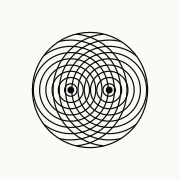
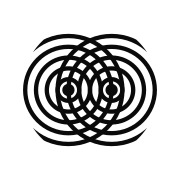
feat(site): centered hero with inline install CTA
Redesign the landing hero: centered layout with an animated background
logomark, the install command inline in the hero, and a GitHub button.
Switch Beta -> Alpha in nav and hero. Rework the favicon (black mark in a
white rounded box) and regenerate the icon assets. Responsive pass.

Changed region(s): [[0.1111, 0.1667, 0.8889, 0.8333]]

diff --git a/site/styles.css b/site/styles.css
@@ -154,12 +154,7 @@ a { color: inherit; text-decoration: none; }
 
 /* ── HERO ────────────────────────────────────────────── */
 .hero { position: relative; z-index: 1; max-width: var(--maxw); margin: 0 auto; padding: clamp(56px, 10vw, 120px) var(--pad) clamp(40px, 7vw, 90px); }
-.hero-grid {
-  display: grid;
-  grid-template-columns: 1.35fr 0.65fr;
-  gap: clamp(24px, 5vw, 64px);
-  align-items: center;
-}
+.hero--centered { display: flex; flex-direction: column; align-items: center; min-height: clamp(480px, 72vh, 720px); justify-content: center; overflow: hidden; }
 .hero h1 {
   font-size: clamp(40px, 8.2vw, 96px);
   font-weight: 500;
@@ -174,17 +169,41 @@ a { color: inherit; text-decoration: none; }
   max-width: 46ch;
   margin: 26px 0 0;
 }
+.lede--center { margin-left: auto; margin-right: auto; color: rgba(10, 10, 10, 0.78); }
 .hero-actions { display: flex; gap: 14px; margin-top: 34px; flex-wrap: wrap; }
 .hero-actions--center { justify-content: center; }
 .hero-foot { margin-top: 28px; }
 
+/* Centered hero: logomark enlarged behind the copy, dimmed + edge-faded so it
+   reads as atmosphere, not a competing element. */
+.hero-copy--center { position: relative; z-index: 1; max-width: 640px; text-align: center; }
+.hero-bg-mark {
+  position: absolute; top: 50%; left: 50%; z-index: 0;
+  width: min(920px, 150vw); transform: translate(-50%, -50%);
+  pointer-events: none; opacity: 0.16; color: var(--ink);
+  mask-image: radial-gradient(circle, #000 45%, transparent 72%);
+  -webkit-mask-image: radial-gradient(circle, #000 45%, transparent 72%);
+}
+.hero-bg-mark img { display: block; width: 100%; height: auto; }
+.install--hero { margin-top: clamp(56px, 9vw, 96px); max-width: 560px; margin-left: auto; margin-right: auto; }
+.install--hero .install-row {
+  text-align: left;
+  background: var(--ink);
+  border-color: rgba(250,250,247,0.14);
+  box-shadow: 0 12px 32px rgba(10,10,10,0.12);
+}
+.install--hero .install-row code { color: #e9e9e3; }
+.install--hero .copy { color: var(--paper); border-color: rgba(250,250,247,0.3); }
+.install--hero .copy:hover { background: var(--paper); color: var(--ink); }
+
 .btn {
-  display: inline-flex; align-items: center; justify-content: center;
+  display: inline-flex; align-items: center; justify-content: center; gap: 8px;
   font-family: var(--mono); font-size: 12px; letter-spacing: 0.04em;
   padding: 13px 22px; border-radius: 2px;
   border: 1px solid var(--ink);
   transition: transform 0.18s var(--ease), background 0.2s var(--ease), color 0.2s var(--ease);
 }
+.btn-gh svg { flex-shrink: 0; }
 .btn:hover { transform: translateY(-2px); }
 .btn-ink { background: var(--ink); color: var(--paper); }
 .btn-ink:hover { background: #1c1c1c; }
@@ -193,14 +212,9 @@ a { color: inherit; text-decoration: none; }
 .btn-paper { background: var(--paper); color: var(--ink); border-color: var(--paper); }
 .btn-paper:hover { background: transparent; color: var(--paper); border-color: var(--paper); }
 
-.hero-mark { display: flex; flex-direction: column; align-items: center; gap: 16px; }
-.hero-mark img { width: min(260px, 60vw); height: auto; }
-.mark-cap { font-family: var(--mono); font-size: 9.5px; letter-spacing: 0.16em; text-transform: uppercase; color: var(--dim-2); }
-@media (max-width: 820px) {
-  .hero-grid { grid-template-columns: 1fr; }
-  .hero-mark { order: -1; align-items: flex-start; }
-  .hero-mark img { width: 120px; }
-  .mark-cap { display: none; }
+@media (max-width: 620px) {
+  .hero-bg-mark { width: min(640px, 190vw); opacity: 0.12; }
+  .install--hero .install-row { flex-direction: column; align-items: stretch; gap: 10px; }
 }
 
 /* ── INK BAND ────────────────────────────────────────── */
@@ -289,13 +303,13 @@ a { color: inherit; text-decoration: none; }
 @media (max-width: 520px) { .why-grid { grid-template-columns: 1fr; } }
 
 /* ── INSTALL ─────────────────────────────────────────── */
-.install { max-width: 720px; margin: 0 auto; }
+.install { max-width: 720px; margin-left: auto; margin-right: auto; }
 .install-row {
   display: flex; align-items: center; justify-content: space-between; gap: 16px;
   border: 1px solid rgba(250,250,247,0.2); border-radius: 4px;
   padding: 16px 18px; background: rgba(250,250,247,0.04);
 }
-.install-row code { font-family: var(--mono); font-size: clamp(12px, 1.6vw, 14px); color: #e9e9e3; letter-spacing: 0.01em; }
+.install-row code { font-family: var(--mono); font-size: clamp(12px, 1.6vw, 14px); color: #e9e9e3; letter-spacing: 0.01em; min-width: 0; overflow-wrap: break-word; }
 .copy {
   font-family: var(--mono); font-size: 10.5px; letter-spacing: 0.1em; text-transform: uppercase;
   background: transparent; color: var(--paper); border: 1px solid rgba(250,250,247,0.3);
@@ -327,4 +341,8 @@ a { color: inherit; text-decoration: none; }
   .reveal, .reveal-up { opacity: 1 !important; transform: none !important; animation: none !important; transition: none !important; }
   .caret { animation: none; }
   html { scroll-behavior: auto; }
+  /* The logomark's pulse is SMIL (<animate> inside the SVG), which CSS
+     animation:none cannot stop — hide the purely decorative (aria-hidden)
+     background mark outright instead. */
+  .hero-bg-mark { display: none; }
 }

diff --git a/site/main.js b/site/main.js
@@ -17,7 +17,7 @@ const I18N = {
     "hero.title": "The Italian<br />Open Source<br /><span class=\"ital\">Coding Agent.</span>",
     "hero.lede": "interference reads your code, edits files and runs commands through an agentic loop — with explicit permissions and a read-only Plan mode. No editor lock-in. Just the terminal.",
     "hero.cta_start": "Get started",
-    "hero.cta_source": "View source ↗",
+    "hero.cta_source": "GitHub ↗",
 
     "term.title": "interference — ~/project",
 
@@ -115,7 +115,7 @@ const I18N = {
     "hero.title": "L'agente di coding<br />open source<br /><span class=\"ital\">italiano.</span>",
     "hero.lede": "interference legge il tuo codice, modifica file ed esegue comandi attraverso un agent loop — con permessi espliciti e una modalità Plan in sola lettura. Nessun vincolo all'editor. Solo il terminale.",
     "hero.cta_start": "Inizia",
-    "hero.cta_source": "Sorgente ↗",
+    "hero.cta_source": "GitHub ↗",
 
     "term.title": "interference — ~/progetto",
 
@@ -363,25 +363,29 @@ document.addEventListener("DOMContentLoaded", function () {
 })();
 
 // ── 3. Copy install command ───────────────────────────
+// Multiple .install-row blocks can exist (hero + quickstart) — each button
+// copies the <code> in its own row, not a page-wide singleton id.
 (function () {
-  var btn = document.getElementById("copybtn");
-  var cmd = document.getElementById("installcmd");
-  if (!btn || !cmd) return;
+  document.querySelectorAll(".install-row").forEach(function (row) {
+    var btn = row.querySelector(".copy");
+    var cmd = row.querySelector("code");
+    if (!btn || !cmd) return;
 
-  btn.addEventListener("click", function () {
-    var text = cmd.textContent.trim();
-    try {
-      navigator.clipboard.writeText(text);
-    } catch (_) {
-      var r = document.createRange(); r.selectNode(cmd);
-      var sel = getSelection(); sel.removeAllRanges(); sel.addRange(r);
-      try { document.execCommand("copy"); } catch (_) {}
-      sel.removeAllRanges();
-    }
-    var prev = btn.textContent;
-    var copiedText = I18N[lang()]["ui.copied"];
-    btn.textContent = copiedText; btn.classList.add("done");
-    setTimeout(function () { btn.textContent = prev; btn.classList.remove("done"); }, 1600);
+    btn.addEventListener("click", function () {
+      var text = cmd.textContent.trim();
+      try {
+        navigator.clipboard.writeText(text);
+      } catch (_) {
+        var r = document.createRange(); r.selectNode(cmd);
+        var sel = getSelection(); sel.removeAllRanges(); sel.addRange(r);
+        try { document.execCommand("copy"); } catch (_) {}
+        sel.removeAllRanges();
+      }
+      var prev = btn.textContent;
+      var copiedText = I18N[lang()]["ui.copied"];
+      btn.textContent = copiedText; btn.classList.add("done");
+      setTimeout(function () { btn.textContent = prev; btn.classList.remove("done"); }, 1600);
+    });
   });
 
   // GitHub star count

diff --git a/site/index.html b/site/index.html
@@ -32,7 +32,7 @@
   <a class="brand" href="#top" aria-label="interference home">
     <img class="brand-mark" src="assets/interference-mark.svg" alt="" width="28" height="28" />
     <span class="brand-word">interference</span>
-    <span class="beta-badge">Beta</span>
+    <span class="beta-badge">Alpha</span>
   </a>
   <nav class="nav-links">
     <a href="#how" data-i18n="nav.how">How it works</a>
@@ -56,20 +56,27 @@
 <main id="top">
 
   <!-- ── HERO ────────────────────────────────────────── -->
-  <section class="hero">
-    <div class="hero-grid">
-      <div class="hero-copy">
-        <span class="hero-badge reveal" style="--d:0">Beta</span>
-        <h1 class="reveal" style="--d:1" data-i18n-html="hero.title">The Italian<br />Open Source<br /><span class="ital">Coding Agent.</span></h1>
-        <p class="lede reveal" style="--d:2" data-i18n="hero.lede">interference reads your code, edits files and runs commands through an agentic loop — with explicit permissions and a read-only Plan mode. No editor lock-in. Just the terminal.</p>
-        <div class="hero-actions reveal" style="--d:3">
-          <a class="btn btn-ink" href="#start" data-i18n="hero.cta_start">Get started</a>
-          <a class="btn btn-ghost" href="https://github.com/ricciviero/interference" target="_blank" rel="noopener" data-i18n="hero.cta_source">View source ↗</a>
+  <section class="hero hero--centered">
+    <div class="hero-bg-mark" aria-hidden="true">
+      <img src="assets/interference-mark-animated.svg" alt="" />
+    </div>
+    <div class="hero-copy hero-copy--center">
+      <span class="hero-badge reveal" style="--d:0">Alpha</span>
+      <h1 class="reveal" style="--d:1" data-i18n-html="hero.title">The Italian<br />Open Source<br /><span class="ital">Coding Agent.</span></h1>
+      <p class="lede lede--center reveal" style="--d:2" data-i18n="hero.lede">interference reads your code, edits files and runs commands through an agentic loop — with explicit permissions and a read-only Plan mode. No editor lock-in. Just the terminal.</p>
+
+      <div class="install install--hero reveal" style="--d:3">
+        <div class="install-row">
+          <code>bun install -g interference-agent</code>
+          <button class="copy" type="button" aria-label="Copy command" data-i18n="ui.copy">copy</button>
         </div>
       </div>
 
-      <div class="hero-mark reveal" style="--d:2" aria-hidden="true">
-        <img src="assets/interference-mark-animated.svg" alt="" />
+      <div class="hero-actions hero-actions--center reveal" style="--d:4">
+        <a class="btn btn-ghost btn-gh" href="https://github.com/ricciviero/interference" target="_blank" rel="noopener">
+          <svg width="15" height="15" viewBox="0 0 16 16" fill="currentColor" aria-hidden="true"><path d="M8 0C3.58 0 0 3.58 0 8c0 3.54 2.29 6.53 5.47 7.59.4.07.55-.17.55-.38 0-.19-.01-.82-.01-1.49-2.01.37-2.53-.49-2.69-.94-.09-.23-.48-.94-.82-1.13-.28-.15-.68-.52-.01-.53.63-.01 1.08.58 1.23.82.72 1.21 1.87.87 2.33.66.07-.52.28-.87.51-1.07-1.78-.2-3.64-.89-3.64-3.95 0-.87.31-1.59.82-2.15-.08-.2-.36-1.02.08-2.12 0 0 .67-.21 2.2.82.64-.18 1.32-.27 2-.27.68 0 1.36.09 2 .27 1.53-1.04 2.2-.82 2.2-.82.44 1.1.16 1.92.08 2.12.51.56.82 1.27.82 2.15 0 3.07-1.87 3.75-3.65 3.95.29.25.54.73.54 1.48 0 1.07-.01 1.93-.01 2.2 0 .21.15.46.55.38A8.013 8.013 0 0016 8c0-4.42-3.58-8-8-8z"/></svg>
+          <span data-i18n="hero.cta_source">GitHub ↗</span>
+        </a>
       </div>
     </div>
   </section>
@@ -172,7 +179,7 @@
   <!-- ── FEATURES ────────────────────────────────────── -->
   <section id="features" class="section">
     <div class="sec-head">
-      <span class="eyebrow" data-i18n="features.eyebrow">/ 02 — what's inside</span>
+      <span class="eyebrow" data-i18n="features.eyebrow">/ 03 — what's inside</span>
       <h2 data-i18n="features.title">Small surface. Serious capability.</h2>
     </div>
     <div class="feat-grid">
@@ -227,7 +234,7 @@
   <!-- ── WHY ─────────────────────────────────────────── -->
   <section id="why" class="section">
     <div class="sec-head">
-      <span class="eyebrow" data-i18n="why.eyebrow">/ 03 — why interference</span>
+      <span class="eyebrow" data-i18n="why.eyebrow">/ 04 — why interference</span>
       <h2 data-i18n="why.title">Not just another agent.</h2>
     </div>
     <div class="why-grid">
@@ -252,7 +259,7 @@
   <!-- ── QUICKSTART ──────────────────────────────────── -->
   <section id="start" class="band-ink section">
     <div class="sec-head sec-head--center">
-      <span class="eyebrow" data-i18n="start.eyebrow">/ 04 — quickstart</span>
+      <span class="eyebrow" data-i18n="start.eyebrow">/ 05 — quickstart</span>
       <h2 data-i18n="start.title">In your terminal in a minute.</h2>
     </div>
       <div class="install reveal-up">